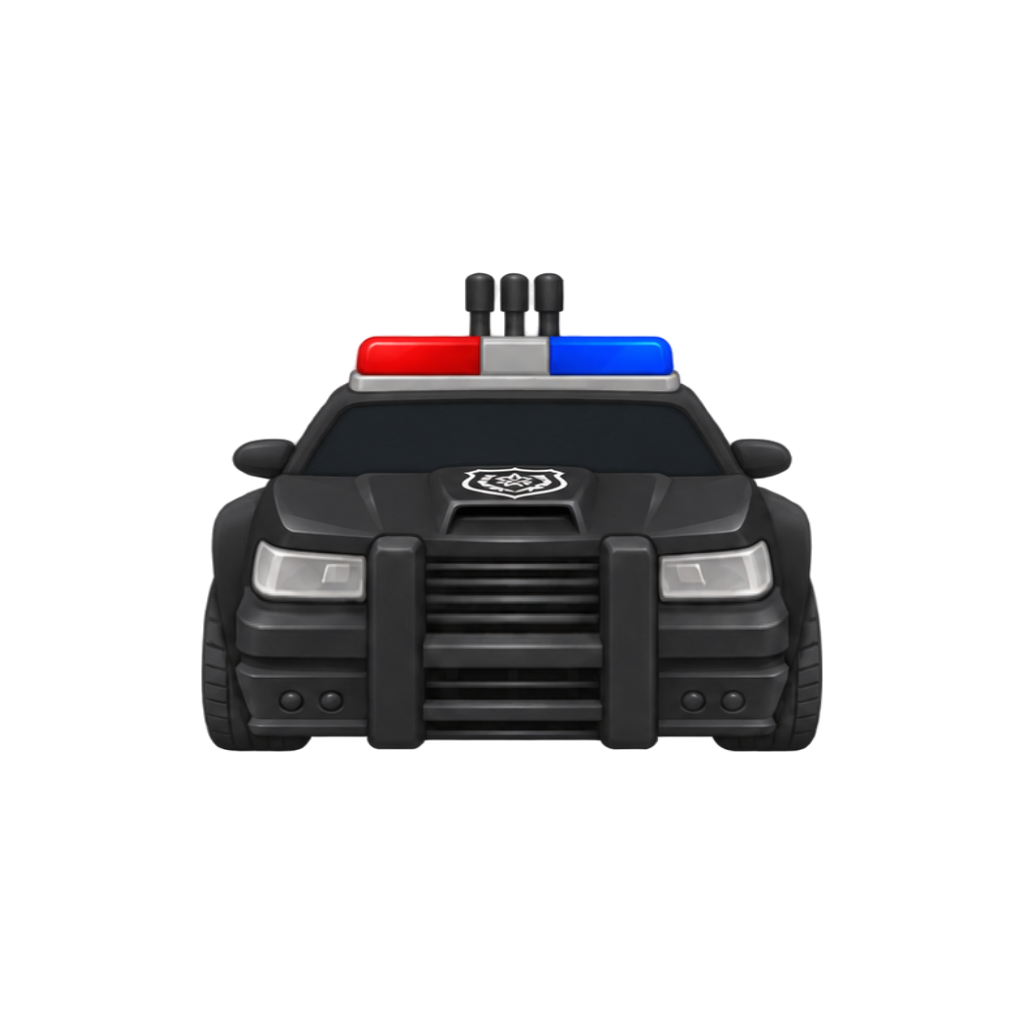
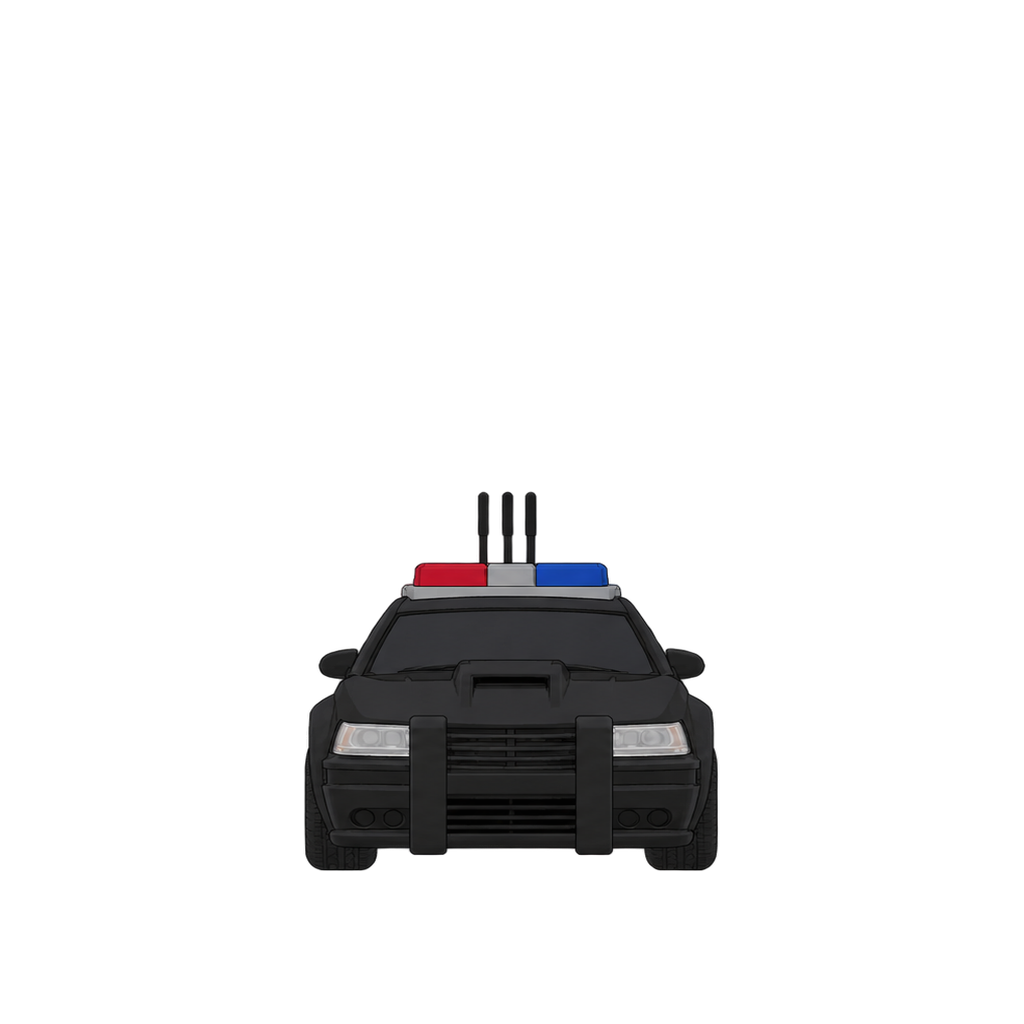
Turnaround views: police car and Koba, redone

Changed region(s): [[0.1875, 0.25, 0.8125, 0.875]]

diff --git a/tools/check_art.py b/tools/check_art.py
@@ -17,9 +17,10 @@ from PIL import Image
 ROOT = os.path.dirname(os.path.dirname(os.path.abspath(__file__)))
 ART = os.path.join(ROOT, "art", "toys")
 MIN_SIDE = 1024
+MIN_FILL = 0.6
 
 
-def check(path):
+def check(path, *, check_fill=True):
     problems = []
     img = Image.open(path)
     if img.format != "PNG":
@@ -36,9 +37,9 @@ def check(path):
     if (edge > 128).mean() > 0.02:
         problems.append("toy touches the image edge (leave a margin)")
     ys, xs = np.where(a > 128)
-    if len(xs):
+    if check_fill and len(xs):
         fill = max((xs.max() - xs.min()) / a.shape[1], (ys.max() - ys.min()) / a.shape[0])
-        if fill < 0.6:
+        if fill < MIN_FILL:
             problems.append("toy is small in the frame (%.0f %%), crop closer" % (fill * 100))
     # Stray specks: semi-transparent haze or bits far from the toy.
     haze = ((a > 8) & (a < 120)).mean()
@@ -76,9 +77,10 @@ def main():
         if len(present) < 4:
             problems.append("missing " + ", ".join(v for v in paths if v not in present))
         boxes = {}
+        set_fill = 0.0
         for v in present:
             img = Image.open(paths[v])
-            own, size = check(paths[v])
+            own, size = check(paths[v], check_fill=False)
             problems += ["%s: %s" % (v, p) for p in own]
             if img.size[0] != img.size[1]:
                 problems.append("%s: not square %s" % (v, img.size))
@@ -87,10 +89,16 @@ def main():
                 ys, xs = np.where(a > 128)
                 if len(ys):
                     boxes[v] = (ys.max() - ys.min(), ys.max() / a.shape[0], img.size)
+                    set_fill = max(set_fill, (xs.max() - xs.min()) / a.shape[1],
+                                   (ys.max() - ys.min()) / a.shape[0])
         if len({b[2] for b in boxes.values()}) > 1:
             problems.append("views have different canvas sizes")
         if boxes:
             hs = [b[0] for b in boxes.values()]
+            # Check framing once per set so narrower views can share the same scale.
+            if set_fill < MIN_FILL:
+                problems.append("toy is small across the turnaround set (%.0f %%), crop closer"
+                                % (100 * set_fill))
             if max(hs) > 1.08 * min(hs):
                 problems.append("toy height differs between views by %.0f %% (same scale needed)"
                                 % (100 * (max(hs) / min(hs) - 1)))
